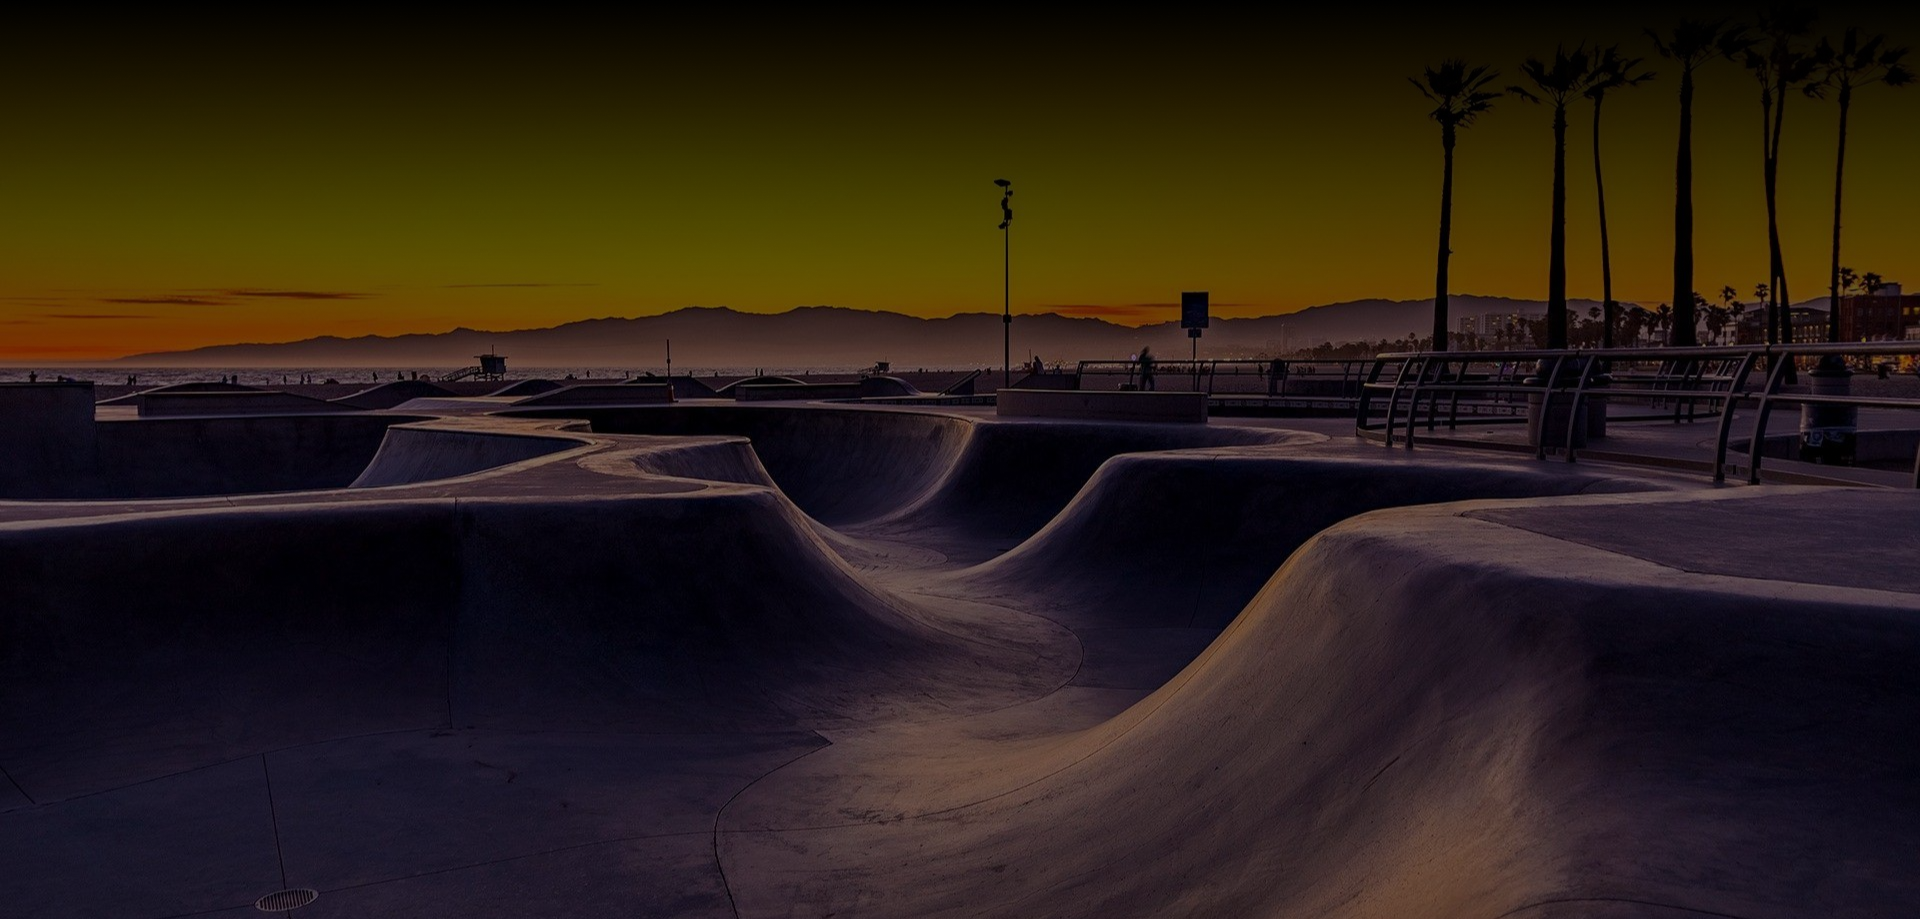
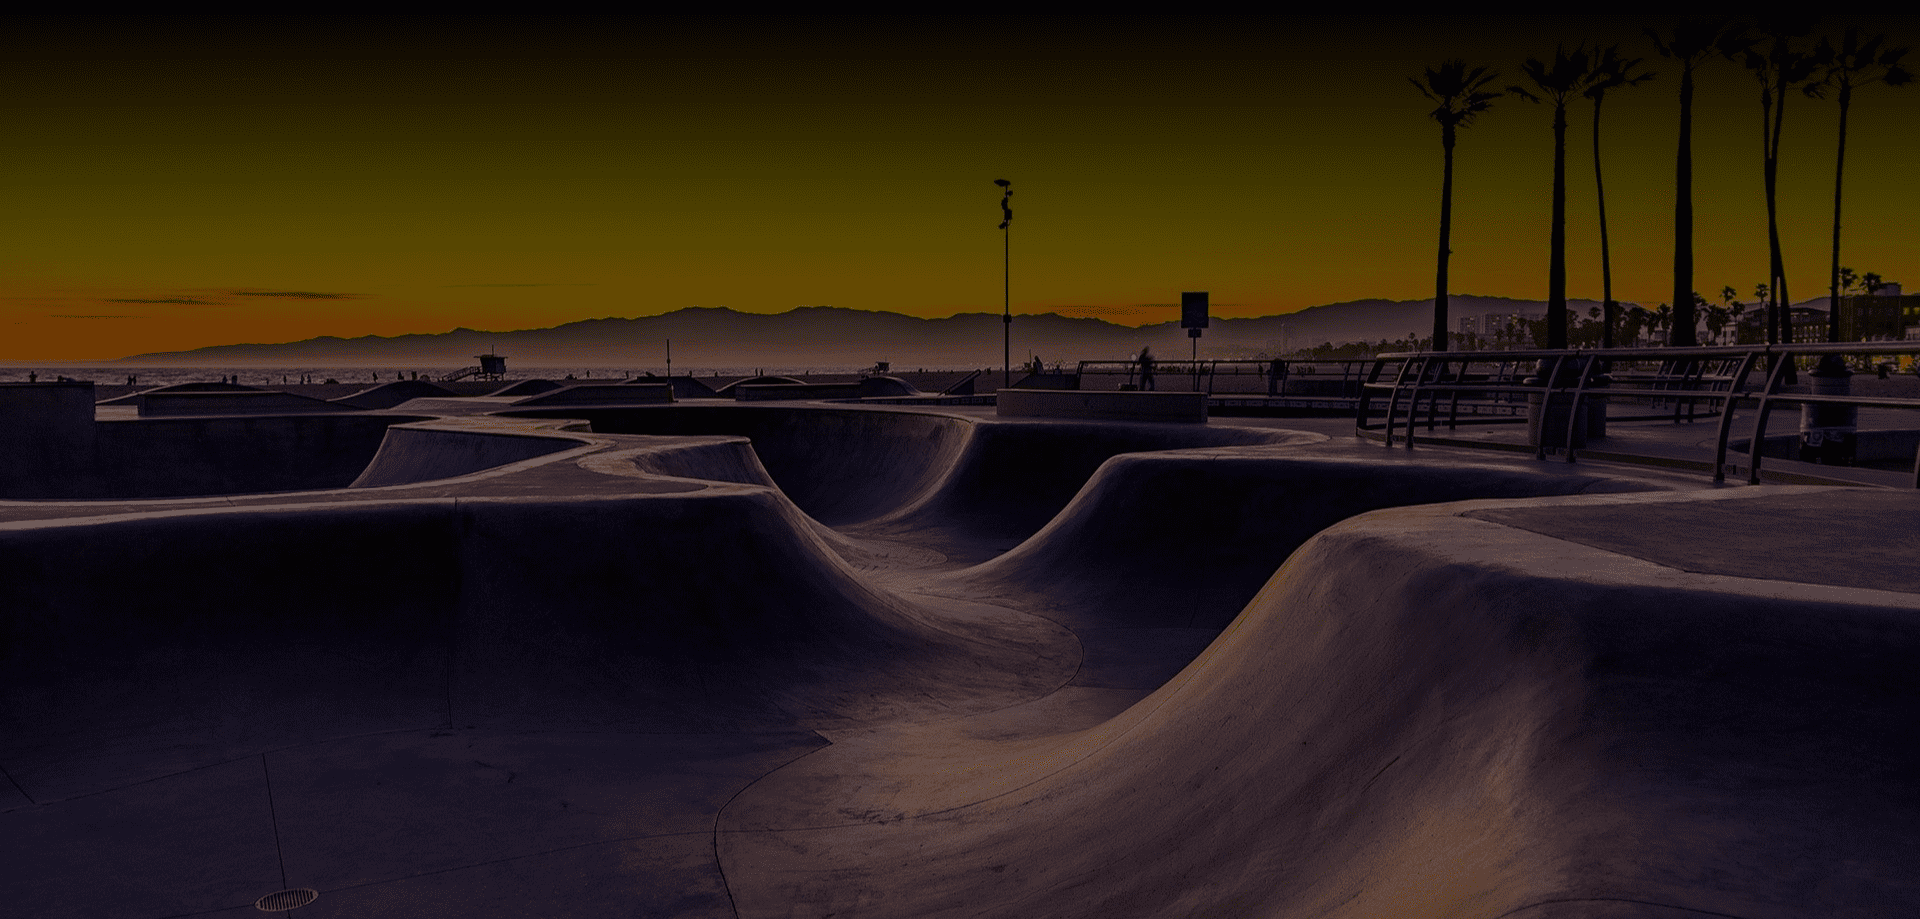
Diminuir Imagem principal

diff --git a/index.php b/index.php
@@ -28,11 +28,13 @@
         <li><a href="#">Ajude-nos</a></li>
       </ul>
       <div id="login">
-        <a id="entrar">
+        <a id="entrar" href="html/login-cadastro.html" >
           <img src="img/entrar.png" alt="entrar">
           <p>ENTRAR</p>
         </a>
+        <a href="html/login-cadastro.html">
         <button id="criar-conta">CRIAR CONTA</button>
+      </a>
       </div>
     </nav>
   </header>
@@ -50,19 +52,19 @@
 
       <div id="imagens-populares">
         <div class="local">
-          <a href=""><img src="img/Fotos/Alexandria/alexandria (1).jpg" alt="alexandria"></a>
+          <a href=""><img src="img/fotos/Alexandria/alexandria (1).jpg" alt="alexandria"></a>
           <p>Alexandria Burguer</p>
         </div>
         <div class="local">
-          <a href=""><img src="img/Fotos/Gutbrau/gutbrau (1).jpg" alt="alexandria"></a>
+          <a href=""><img src="img/fotos/Gutbrau/gutbrau (1).jpg" alt="alexandria"></a>
           <p>Gutbrau</p>
         </div>
         <div class="local">
-          <a href=""><img src="img/Fotos/Level Café/levelcafe (1).jpg" alt="alexandria"></a>
+          <a href=""><img src="img/fotos/Level Café/levelcafe (1).jpg" alt="alexandria"></a>
           <p>Level Café</p>
         </div>
         <div class="local">
-          <a href=""><img src="img/Fotos/Unalome/unalome (1).png" alt="alexandria"></a>
+          <a href=""><img src="img/fotos/Unalome/unalome (1).png" alt="alexandria"></a>
           <p>Unalome</p>
         </div>
       </div>
